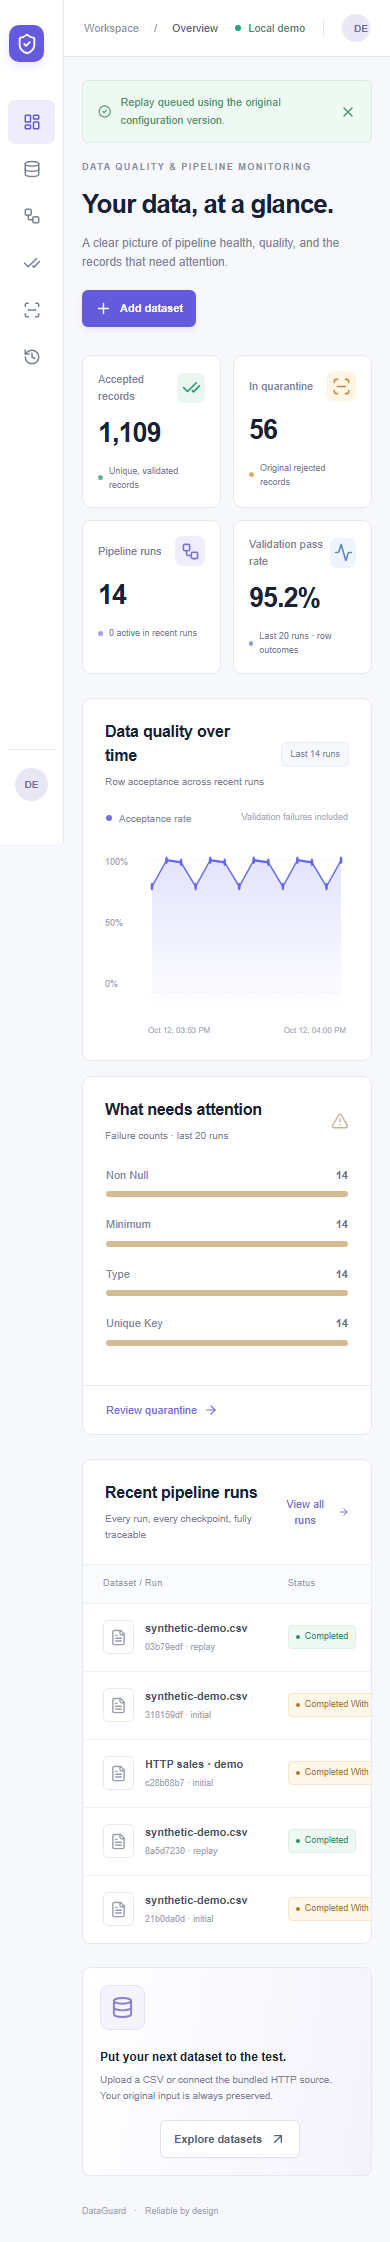
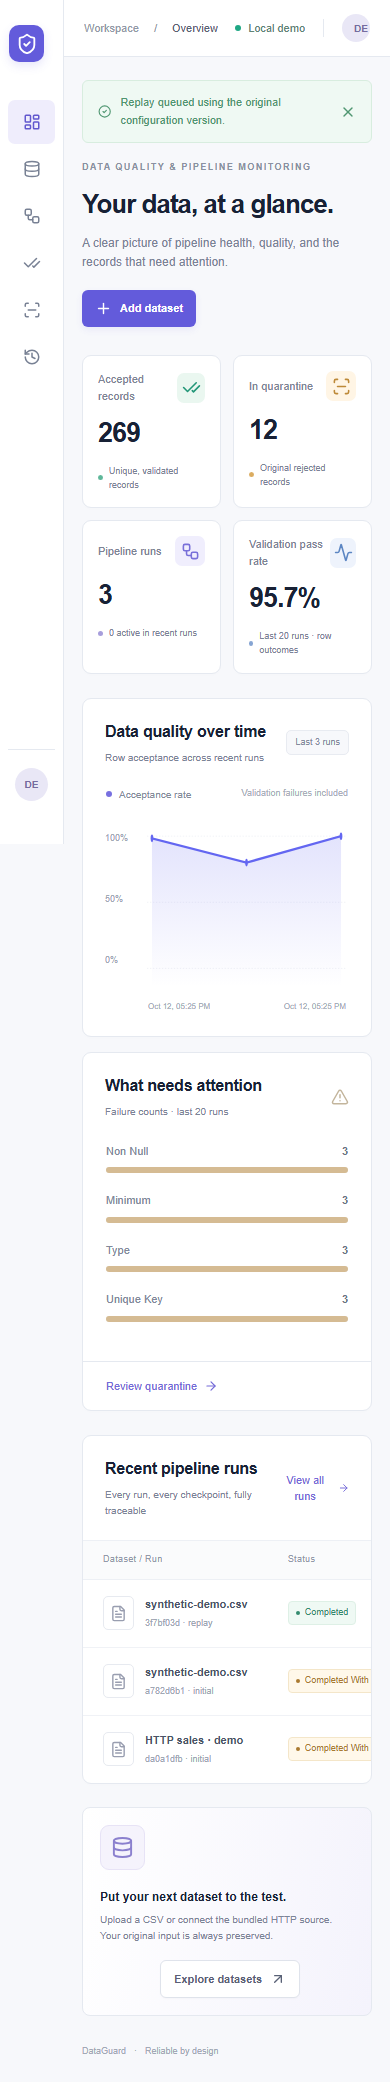
Verify Docker stack and avoid existing project port conflicts

diff --git a/scripts/worker-interruption.py b/scripts/worker-interruption.py
@@ -10,7 +10,7 @@ import httpx
 from generate import generate
 
 parser = argparse.ArgumentParser()
-parser.add_argument("--api", default="http://localhost:8000")
+parser.add_argument("--api", default="http://localhost:8001")
 args = parser.parse_args()
 client = httpx.Client(base_url=args.api, timeout=30)
 token = (

diff --git a/docs/VERIFICATION.md b/docs/VERIFICATION.md
@@ -28,10 +28,12 @@ The final standalone Next.js server served both browser scenarios successfully. 
 
 ## Environment and limits
 
-Windows host, Python 3.11.9, Node 22.14.0, native PostgreSQL 16.8 bound to loopback on port 55432. AMD Ryzen 5 PRO 7540U, 6 physical / 12 logical cores, 16,405,434,368 bytes installed RAM. The processing benchmark records batch size 250, OS, CPU count, Python, and database dialect. Peak memory is Python allocation tracing, not database/Redis memory or complete process memory. Browser verification uses the portable database polling worker; production Compose uses Celery.
+Windows host, Python 3.11.9, Node 22.14.0, native PostgreSQL 16.8 bound to loopback on port 55432. AMD Ryzen 5 PRO 7540U, 6 physical / 12 logical cores, 16,405,434,368 bytes installed RAM. The processing benchmark records batch size 250, OS, CPU count, Python, and database dialect. Peak memory is Python allocation tracing, not database/Redis memory or complete process memory. Initial browser verification used the portable database polling worker. The repeat after Docker repair used the full Compose stack with Celery and Redis.
 
-## Not executed on this host
+## Docker verification after startup repair
 
-Docker Desktop's Linux engine did not initialize, so the complete Compose service startup, Redis-backed Celery delivery, Celery worker SIGKILL/restart integration script, container builds, and GitHub Actions jobs are **not runtime-verified here**. The Docker manifest parsed successfully; native PostgreSQL verifies database behavior independently. The CI workflow includes the full Compose/browser path for a Linux runner. No successful CI result or Docker recovery result is claimed.
+Docker Desktop initially failed on inaccessible AF_UNIX runtime sockets. The two affected communication directories were preserved under timestamped backup names; fresh runtime directories allowed Docker Engine 29.6.1 to start. No image, volume, or project data reset was performed.
 
-No hosted deployment was attempted: this request is a local repository build with a practical deployment guide. Optional statistical drift detection is deferred. No production-readiness or exactly-once execution claim is made.
+All DataGuard images built successfully and the complete Compose stack started. PostgreSQL and Redis are healthy, migration/seed completed, and API health returned OK. Frontend returned HTTP 200. Both Playwright scenarios passed against the full Docker/Celery/Redis stack (2 passed, 16.8 seconds), verifying CSV correction/replay and the live paginated HTTP connector. PostgreSQL is internal-only and the API uses host port 8001 because the existing DevPilot project already occupies 5432 and 8000.
+
+GitHub Actions has not been run. The dedicated Celery SIGKILL/restart integration script remains unexecuted; the earlier verified 2,000-row hard-kill result is still the native processing-core path. No hosted deployment was attempted. Optional statistical detection is deferred.

diff --git a/docs/PROGRESS.md b/docs/PROGRESS.md
@@ -1,10 +1,10 @@
 # Final implementation progress
 
 1. Database, API, ingestion, and validation: implemented and checked on PostgreSQL and SQLite.
-2. Durable processing, idempotency, and crash recovery: implemented; 2,000-row OS hard-kill recovery verified with zero duplicate writes. Redis/Celery-specific transport remains unverified because Docker Desktop's Linux engine failed to initialize.
+2. Durable processing, idempotency, and crash recovery: implemented; 2,000-row OS hard-kill recovery verified with zero duplicate writes. Docker/Redis/Celery services now start after the Docker runtime-socket repair; the dedicated Celery SIGKILL script still awaits execution.
 3. Quarantine, correction, and replay: implemented; successful/failed replay, immutable evidence, version retention, cancellation, and ownership tested.
 4. Frontend and complete demo: all six views implemented; two browser scenarios passed against native PostgreSQL, including CSV replay and live mock HTTP pagination. Desktop/mobile screenshots preserved.
-5. Tests, evaluation, CI, and documentation: 23 PostgreSQL tests passed; SQLite 22 passed / one concurrency test skipped; production build, standalone server, type checks, and Compose parsing passed. Actual 10,000/100,000-row measurements and recovery report preserved. CI and full Compose execution supplied but not executed on this host.
+5. Tests, evaluation, CI, and documentation: 23 PostgreSQL tests passed; SQLite 22 passed / one concurrency test skipped; production build, standalone server, type checks, and Compose parsing passed. Actual 10,000/100,000-row measurements and recovery report preserved. Full Compose execution now passed after Docker repair; GitHub Actions remains unexecuted.
 6. Optional statistical detection: intentionally deferred. No LLM or paid key is required.
 
 Remaining verification is explicit in VERIFICATION.md; no fabricated Docker, CI, or deployment success is claimed.

diff --git a/README.md b/README.md
@@ -17,7 +17,7 @@ docker compose config --quiet
 docker compose up -d --build
 ~~~
 
-Open [DataGuard](http://localhost:3000). API explorer: [FastAPI docs](http://localhost:8000/docs). Migration and seed jobs run before the application services.
+Open [DataGuard](http://localhost:3000). Docker exposes the API on port 8001 and keeps PostgreSQL internal to avoid conflicts with other local projects. API explorer: [FastAPI docs](http://localhost:8001/docs). Migration and seed jobs run before the application services.
 
 **Clearly labeled local demo login:** `demo@dataguard.local` / `dataguard-demo`. These defaults are for local synthetic demonstrations. Existing password hashes are preserved on re-seed; changing DEMO_PASSWORD only affects creation of the demo account.
 
@@ -103,7 +103,7 @@ docker compose up -d --force-recreate worker
 python scripts/worker-interruption.py
 ~~~
 
-This uploads 100,000 synthetic clean rows, observes a committed partial checkpoint, sends SIGKILL to the Celery worker, restarts it, waits for scheduler recovery, and asserts 100,000 accepted records with zero duplicates. It writes `docs/celery-recovery-results.json` only after successful assertions. This particular Docker path could not run on the build host because its Linux engine did not start.
+This uploads 100,000 synthetic clean rows, observes a committed partial checkpoint, sends SIGKILL to the Celery worker, restarts it, waits for scheduler recovery, and asserts 100,000 accepted records with zero duplicates. It writes `docs/celery-recovery-results.json` only after successful assertions. The full Compose stack now runs after a Docker runtime repair. This dedicated Celery interruption script has not yet been executed; see the verification ledger for exact scope.
 
 Generate larger fixtures without committing them:
 

diff --git a/docs/RESUME.md b/docs/RESUME.md
@@ -4,4 +4,4 @@
 - Implemented transactional batch checkpoints, worker leases, fencing tokens, and database uniqueness constraints; verified recovery of 2,000 rows after a hard process kill with zero duplicate accepted writes and 23 passing PostgreSQL behavioral tests.
 - Created deterministic 10,000/100,000-row benchmarks and two Playwright browser workflows; validated 99,996 accepted / 4 quarantined records on the 100,000-row run with zero duplicate writes after repeated delivery, measuring 132.91 rows/second with allocation tracing enabled.
 
-Interview caveats: measured recovery exercises the processing/database core, and browser checks use the portable worker. Redis-backed Celery interruption and the full Docker runtime were not executable on this host. Timing includes tracemalloc and concurrent development/test activity; these local results are not a production capacity claim.
+Interview caveats: measured recovery exercises the processing/database core, and browser checks passed with both the portable worker and full Compose/Celery/Redis stack. The full Docker runtime now starts successfully after a Docker repair; the dedicated Redis-backed Celery SIGKILL integration script has not been executed. Timing includes tracemalloc and concurrent development/test activity; these local results are not a production capacity claim.
